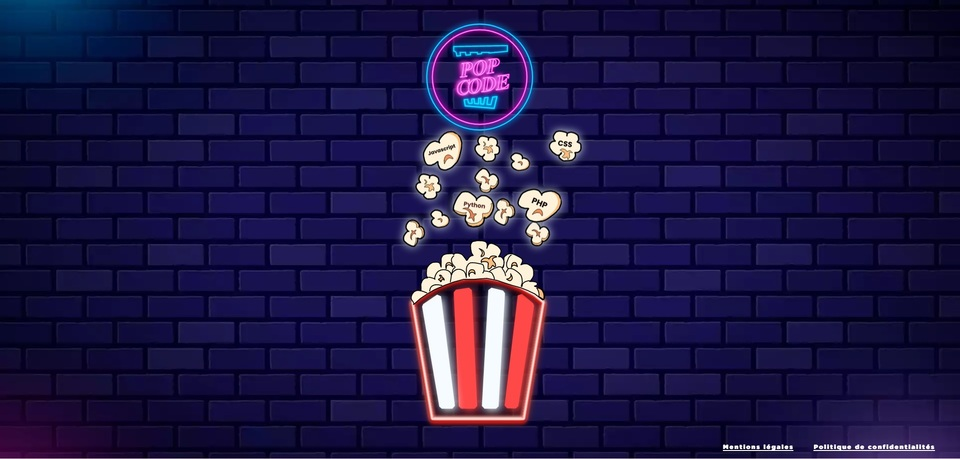
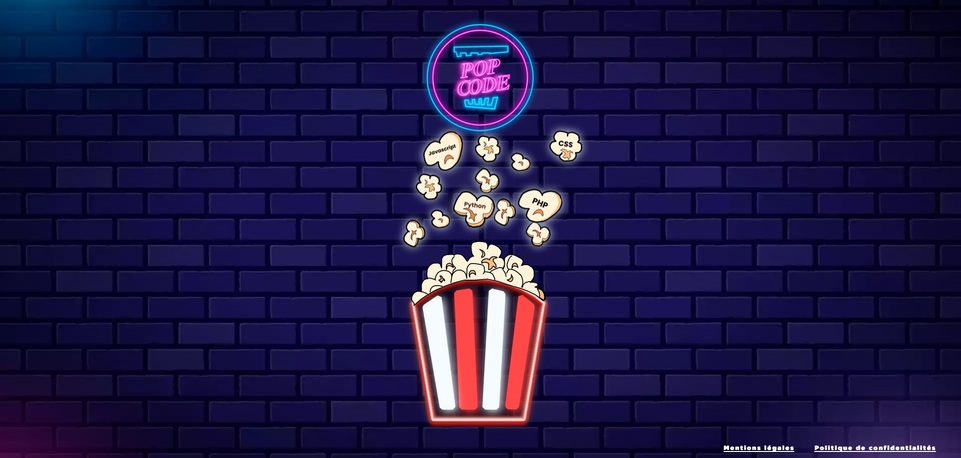
add scale(0.6) to containerProject

diff --git a/assets/js/app.js b/assets/js/app.js
@@ -62,22 +62,27 @@ const closeModalePop = document.querySelector(".closePop");
 const closeModaleAllo = document.querySelector(".closeAllo");
 const closeModaleCrea = document.querySelector(".closeCrea");
 const closeModaleBoots = document.querySelector(".closeBoots");
+const containerProject = document.querySelector(".containerProject");
 
 closeModalePop.addEventListener("click", function () {
   modalPop.classList.toggle("flex");
   modalPop.classList.toggle("displayNone");
+  containerProject.classList.remove("scaleTranslate");
 });
 closeModaleAllo.addEventListener("click", function () {
   modalAllo.classList.toggle("flex");
   modalAllo.classList.toggle("displayNone");
+  containerProject.classList.remove("scaleTranslate");
 });
 closeModaleCrea.addEventListener("click", function () {
   modalCrea.classList.toggle("flex");
   modalCrea.classList.toggle("displayNone");
+  containerProject.classList.remove("scaleTranslate");
 });
 closeModaleBoots.addEventListener("click", function () {
   modalBoots.classList.toggle("flex");
   modalBoots.classList.toggle("displayNone");
+  containerProject.classList.remove("scaleTranslate");
 });
 
 btnPop.addEventListener("click", () => {
@@ -90,9 +95,9 @@ btnPop.addEventListener("click", () => {
   modalBoots.classList.add("displayNone");
   modalBoots.classList.remove("flex");
   if (modalPop.classList.contains("flex") === true) {
-    console.log("ok  flex");
+    containerProject.classList.add("scaleTranslate");
   } else {
-    console.log("ok ");
+    containerProject.classList.remove("scaleTranslate");
   }
 });
 
@@ -105,6 +110,11 @@ btnAllo.addEventListener("click", function () {
   modalCrea.classList.remove("flex");
   modalBoots.classList.add("displayNone");
   modalBoots.classList.remove("flex");
+  if (modalAllo.classList.contains("flex") === true) {
+    containerProject.classList.add("scaleTranslate");
+  } else {
+    containerProject.classList.remove("scaleTranslate");
+  }
 });
 btnCrea.addEventListener("click", function () {
   modalCrea.classList.toggle("flex");
@@ -115,6 +125,11 @@ btnCrea.addEventListener("click", function () {
   modalAllo.classList.remove("flex");
   modalBoots.classList.add("displayNone");
   modalBoots.classList.remove("flex");
+  if (modalCrea.classList.contains("flex") === true) {
+    containerProject.classList.add("scaleTranslate");
+  } else {
+    containerProject.classList.remove("scaleTranslate");
+  }
 });
 btnBoots.addEventListener("click", function () {
   modalAllo.classList.remove("flex");
@@ -125,6 +140,11 @@ btnBoots.addEventListener("click", function () {
   modalCrea.classList.remove("flex");
   modalBoots.classList.toggle("flex");
   modalBoots.classList.toggle("displayNone");
+  if (modalBoots.classList.contains("flex") === true) {
+    containerProject.classList.add("scaleTranslate");
+  } else {
+    containerProject.classList.remove("scaleTranslate");
+  }
 });
 
 // ****** sliders*******

diff --git a/index.html b/index.html
@@ -69,9 +69,10 @@
 
             <div class="my-sliderPop">
                 <img src="assets/img/popIntro.jpg" alt="capture d'écran de la page d'accueil du site">
-                <img src="assets/img/popcodeScreen.png" alt="capture d'écran de la page d'accueil du site">
-                <img src="assets/img/popcodeModale.png" alt="aperçu de l'écran de jeu">
-                <img src="assets/img/popcodeJeu.png" alt="capture d'écran de la page d'accueil du site">
+                <img src="assets/img/popAccueil.jpg" alt="capture d'écran de la page d'accueil du site">
+                <img src="assets/img/popJeu.jpg" alt="aperçu de l'écran de jeu">
+                <img src="assets/img/popInput.jpg" alt="capture d'écran de la page d'accueil du site">
+                <img src="assets/img/popInfo.jpg" alt="capture d'écran de la page d'accueil du site">
             </div>
 
             <p>Projet réalisé durant ma formation Access Code School.</p>

diff --git a/assets/css/style.css b/assets/css/style.css
@@ -14,6 +14,9 @@
 .displayNone{
     display: none;
 }
+.scaleTranslate{
+    transform : scale(0.6) translateX(35rem);
+}
 /* ********************************* */
 body{
     margin: 0;
@@ -60,7 +63,6 @@ a{
     flex-direction: column;
     width: 95%;
     font-size: 9rem;
-    transform: translateY(70px);
     font-family: "Druk Wide Web Bold Regular";
     font-weight: 800;
     perspective: 800px;
